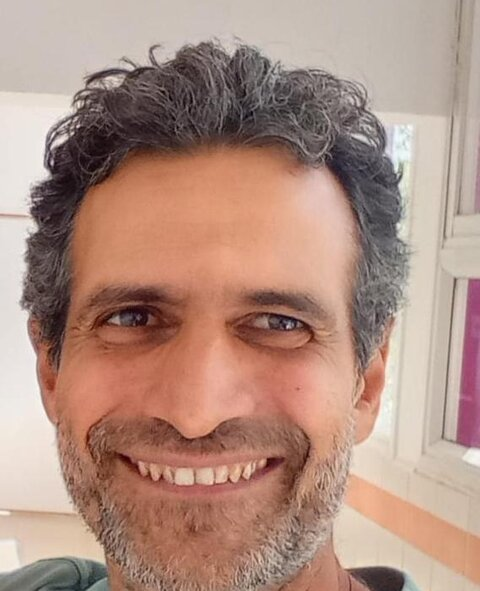
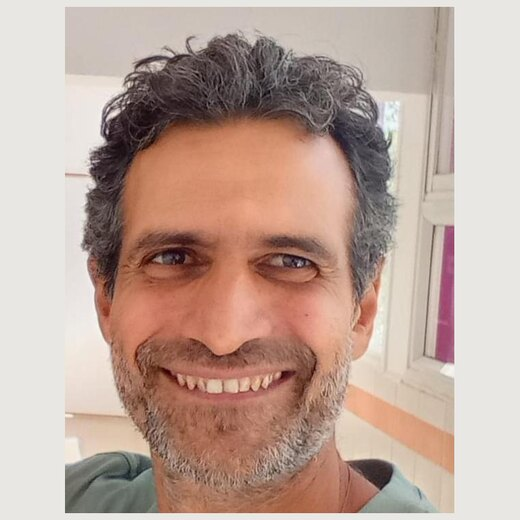
Books site: show the whole face in the author photo
Claude-Session: https://claude.ai/code/session_01F1MwCSEwj7PJy6tQkYh8cg

diff --git a/books/assets/style.css b/books/assets/style.css
@@ -202,7 +202,7 @@ footer .hand { font-size: 30px; color: var(--ink); display: block; }
   background: linear-gradient(135deg, #fff 0%, #fff7e6 100%); border: 1px solid var(--line);
 }
 .about img {
-  width: 220px; height: 220px; object-fit: cover; object-position: center 30%; border-radius: 50%;
+  width: 220px; height: 220px; object-fit: cover; object-position: center; border-radius: 50%;
   border: 6px solid #fff; box-shadow: 0 0 0 3px #e0b04a, var(--shadow); transform: rotate(-2deg);
 }
 .about h2 { margin: 0; font-size: 46px; line-height: 1; color: #e0862a; }
